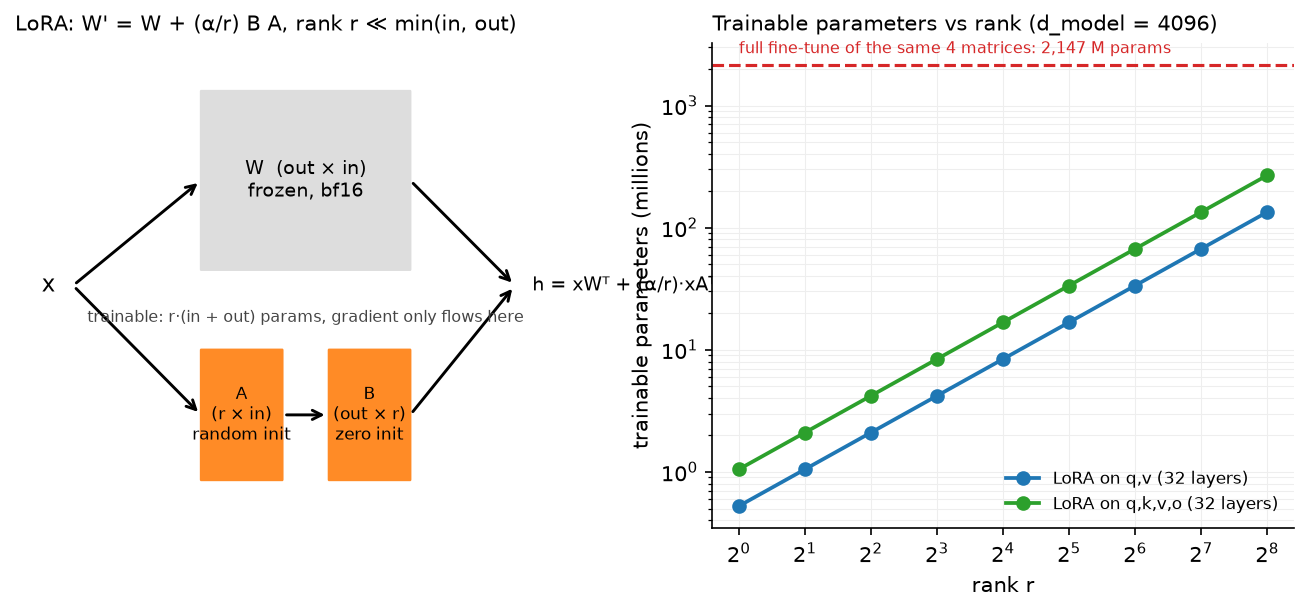
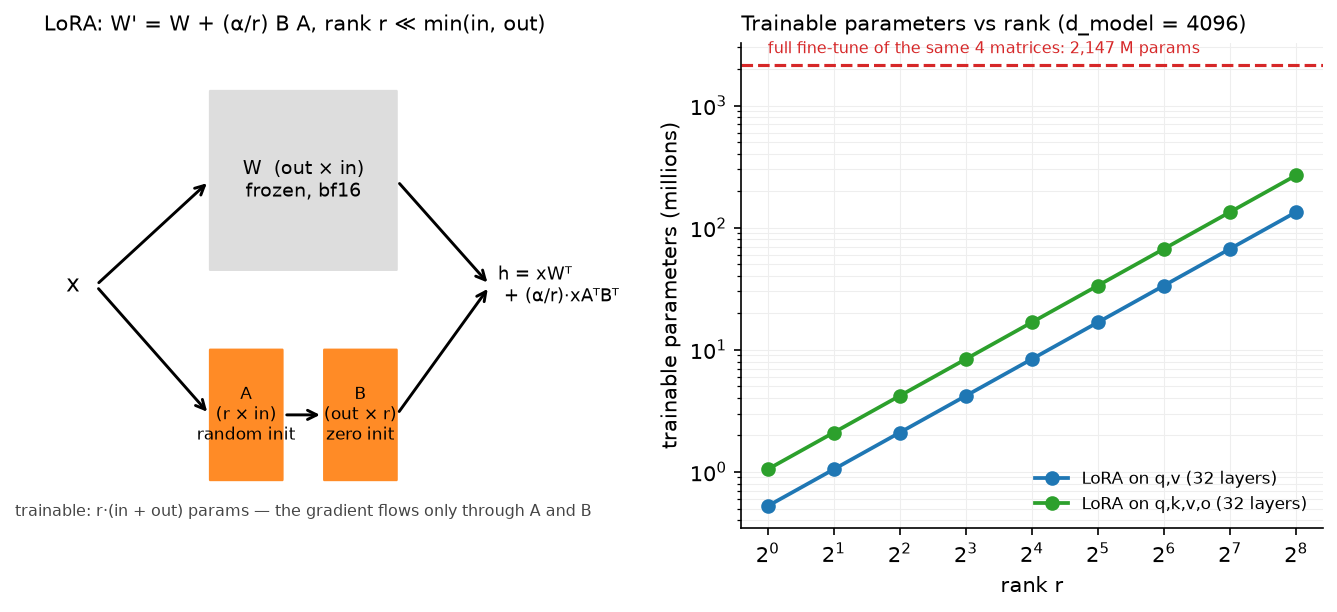
WIP: in-progress chapter and code work from resumed authors
Claude-Session: https://claude.ai/code/session_015H27xcFqfnuEV6DfXzrQek

diff --git a/figures/part03_dropout.py b/figures/part03_dropout.py
@@ -40,43 +40,63 @@ for k in range(3):
 ax.set_title("each minibatch trains a different thinned network\n(hollow = dropped, p = 0.5); inference averages them", fontsize=9)
 ax.set_xlim(-0.15, 1.05)
 
-# ---- right: a real experiment ---------------------------------------------------
-x_all, y_all = make_two_moons(n=120, noise=0.35, seed=1)
-x_tr, y_tr, x_va, y_va = x_all[:40], y_all[:40], x_all[40:], y_all[40:]
-
-
-def run(p_drop, epochs=600, lr=0.05, seed=0):
+# ---- right: a real experiment ------------------------------------------------
+# A task where dropout genuinely helps: 100-dim inputs of which only 10 carry signal,
+# 300 training points, a deliberately over-parameterised 100-64-64-2 MLP.
+def make_sparse(n, d=100, k=10, seed=0, noise=0.3):
     rng = np.random.default_rng(seed)
-    l1, l2, l3 = Linear(2, 128, rng), Linear(128, 128, rng), Linear(128, 2, rng)
+    x = rng.normal(size=(n, d))                                  # (n, d)
+    w = np.zeros(d)                                              # (d,)
+    w[:k] = rng.choice([-1.0, 1.0], k)                           # only k features matter
+    logit = x @ w / np.sqrt(k) * 2.0                             # (n,)
+    y = (logit + rng.normal(scale=noise, size=n) > 0).astype(int)  # (n,)
+    return x, y
+
+
+N_TR = 300
+x_all, y_all = make_sparse(N_TR + 1000)
+x_tr, y_tr, x_va, y_va = x_all[:N_TR], y_all[:N_TR], x_all[N_TR:], y_all[N_TR:]
+
+
+def run(p_drop, epochs=400, lr=0.05, width=64, seed=0):
+    rng = np.random.default_rng(seed)
+    l1 = Linear(x_tr.shape[1], width, rng)                       # (d, width)
+    l2 = Linear(width, width, rng)                               # (width, width)
+    l3 = Linear(width, 2, rng)                                   # (width, 2)
     a1, a2 = ReLU(), ReLU()
     d1, d2 = Dropout(p_drop, seed=1), Dropout(p_drop, seed=2)
     loss_fn = CrossEntropyLoss()
-    tr, va = [], []
+    tr, va, acc = [], [], []
     for _ in range(epochs):
         for d in (d1, d2):
             d.training = True
-        h = d2.forward(a2.forward(l2.forward(d1.forward(a1.forward(l1.forward(x_tr))))))
+        h = d2.forward(a2.forward(l2.forward(d1.forward(a1.forward(l1.forward(x_tr))))))  # (N_TR, width)
         tr.append(loss_fn.forward(l3.forward(h), y_tr))
-        g = l3.backward(loss_fn.backward())
+        g = l3.backward(loss_fn.backward())                      # (N_TR, 2) -> (N_TR, width)
         g = l1.backward(a1.backward(d1.backward(l2.backward(a2.backward(d2.backward(g))))))
         for lin in (l1, l2, l3):
             lin.W -= lr * lin.dW
             lin.b -= lr * lin.db
         for d in (d1, d2):
-            d.training = False
-        h = a2.forward(l2.forward(a1.forward(l1.forward(x_va))))
-        va.append(CrossEntropyLoss().forward(l3.forward(h), y_va))
-    return tr, va
+            d.training = False                                   # inference: no mask, no rescale
+        logits = l3.forward(a2.forward(l2.forward(a1.forward(l1.forward(x_va)))))  # (1000, 2)
+        va.append(CrossEntropyLoss().forward(logits, y_va))
+        acc.append(float((logits.argmax(1) == y_va).mean()))
+    return tr, va, acc
 
 
 ax = axes[1]
+finals = {}
 for p, ls in [(0.0, "-"), (0.5, "--")]:
-    tr, va = run(p)
+    tr, va, acc = run(p)
+    finals[p] = (va[-1], acc[-1])
     ax.plot(tr, ls=ls, color="C0", label=f"train, p={p}")
     ax.plot(va, ls=ls, color="C1", label=f"val, p={p}")
-ax.set_xlabel("epoch (full-batch GD, 40 train / 80 val points, noise 0.35)")
+ax.set_xlabel("epoch (full-batch GD; 300 train / 1000 val, 100 features of which 10 matter)")
 ax.set_ylabel("cross-entropy")
-ax.set_title("2-128-128-2 MLP: dropout closes the train/val gap", fontsize=9)
+ax.set_title("100-64-64-2 MLP: p=0 overfits (val {:.2f}, acc {:.2f});\n"
+             "p=0.5 does not (val {:.2f}, acc {:.2f})".format(
+                 finals[0.0][0], finals[0.0][1], finals[0.5][0], finals[0.5][1]), fontsize=9)
 ax.legend(fontsize=8)
 ax.grid(alpha=0.3)
 fig.tight_layout()

diff --git a/figures/part06_lora_diagram.py b/figures/part06_lora_diagram.py
@@ -21,7 +21,7 @@ def main() -> None:
     colors = plt.rcParams["axes.prop_cycle"].by_key()["color"]
     fig, (ax1, ax2) = plt.subplots(1, 2, figsize=(11, 4.2), facecolor="white")
 
-    ax1.set_xlim(0, 10)
+    ax1.set_xlim(0, 11.2)
     ax1.set_ylim(0, 6)
     ax1.axis("off")
     ax1.add_patch(FancyBboxPatch((3.2, 3.2), 3.6, 2.2, boxstyle="round,pad=0.02", facecolor="#dddddd", edgecolor="none"))
@@ -34,8 +34,8 @@ def main() -> None:
                                ((6.8, 4.3), (8.6, 3.0)), ((6.8, 1.4), (8.6, 3.0))]:
         ax1.add_patch(FancyArrowPatch((x0, y0), (x1, y1), arrowstyle="->", mutation_scale=11, linewidth=1.4))
     ax1.text(0.7, 3.0, "x", fontsize=11, ha="right", va="center")
-    ax1.text(8.9, 3.0, "h = xWᵀ + (α/r)·xAᵀBᵀ", fontsize=9, ha="left", va="center")
-    ax1.text(5.0, 2.55, "trainable: r·(in + out) params, gradient only flows here", ha="center", fontsize=7.5, color="#444444")
+    ax1.text(8.75, 3.0, "h = xWᵀ\n + (α/r)·xAᵀBᵀ", fontsize=8.5, ha="left", va="center")
+    ax1.text(5.0, 0.15, "trainable: r·(in + out) params — the gradient flows only through A and B", ha="center", fontsize=7.5, color="#444444")
     ax1.set_title("LoRA: W' = W + (α/r) B A, rank r ≪ min(in, out)", fontsize=10, loc="left")
 
     d = 4096

diff --git a/tests/test_interp_sae.py b/tests/test_interp_sae.py
@@ -20,9 +20,14 @@ def test_sae_loss_matches_manual():
 def test_train_sae_recovers_superposed_features():
     torch.manual_seed(0)
     torch.set_num_threads(1)
-    X, dirs = sae_mod.make_superposition_data(n=4096, d=16, n_true=32, p_active=0.05)
+    # NOTE: the data seed must differ from the global seed used by the SAE's own
+    # randn init, otherwise the first n_true decoder rows are drawn as the very same
+    # numbers as the true directions and recovery is 1.0 before any training.
+    X, dirs = sae_mod.make_superposition_data(n=4096, d=16, n_true=32, p_active=0.05, seed=7)
     sae = sae_mod.SparseAutoencoder(16, 64)
     before = sae_mod.feature_recovery(sae, dirs).mean()
+    assert before < 0.8  # random dictionary: best |cos| in d=16 over 64 rows is ~0.6
     sae_mod.train_sae(sae, X, l1_coeff=0.2, steps=600)
     after = sae_mod.feature_recovery(sae, dirs)
     assert after.mean() > before and after.mean() > 0.85
+    assert float(after.min()) > 0.6

diff --git a/figures/part12_agent_loop.py b/figures/part12_agent_loop.py
@@ -10,6 +10,7 @@ import matplotlib
 
 matplotlib.use("Agg")
 import matplotlib.pyplot as plt  # noqa: E402
+from matplotlib.colors import to_hex  # noqa: E402
 from matplotlib.patches import FancyBboxPatch  # noqa: E402
 
 OUT = Path(__file__).resolve().parents[1] / "docs" / "assets" / "figures" / "part12_agent_loop.png"
@@ -27,7 +28,7 @@ def arrow(ax, x0, y0, x1, y1, text="", rad=0.0, color="#333333"):
 
 
 def main() -> None:
-    c = plt.rcParams["axes.prop_cycle"].by_key()["color"]
+    c = [to_hex(x) for x in plt.rcParams["axes.prop_cycle"].by_key()["color"]]  # tab10 as #rrggbb
     fig, ax = plt.subplots(figsize=(10.5, 5.2), facecolor="white")
     ax.set_xlim(0, 10.5)
     ax.set_ylim(0, 5.2)

diff --git a/figures/part12_taxonomy.py b/figures/part12_taxonomy.py
@@ -10,6 +10,7 @@ import matplotlib
 
 matplotlib.use("Agg")
 import matplotlib.pyplot as plt  # noqa: E402
+from matplotlib.colors import to_hex  # noqa: E402
 from matplotlib.patches import FancyBboxPatch  # noqa: E402
 
 OUT = Path(__file__).resolve().parents[1] / "docs" / "assets" / "figures" / "part12_taxonomy.png"
@@ -27,7 +28,7 @@ def arrow(ax, x0, y0, x1, y1):
 
 
 def main() -> None:
-    c = plt.rcParams["axes.prop_cycle"].by_key()["color"]
+    c = [to_hex(x) for x in plt.rcParams["axes.prop_cycle"].by_key()["color"]]  # tab10 as #rrggbb
     fig, ax = plt.subplots(figsize=(11, 6.4), facecolor="white")
     ax.set_xlim(0, 11)
     ax.set_ylim(0, 6.4)

diff --git a/figures/part06_midtraining_pipeline.py b/figures/part06_midtraining_pipeline.py
@@ -40,7 +40,7 @@ def main() -> None:
     ax2.set_ylabel("data mixture (fraction of tokens)")
     ax2.set_xlabel("percent of pretraining tokens")
     ax2.set_ylim(0, 1)
-    ax2.legend(fontsize=7.5, frameon=False, loc="upper left", ncol=3)
+    ax2.legend(fontsize=7.5, frameon=False, loc="upper center", bbox_to_anchor=(0.5, -0.22), ncol=3)
     for ax in (ax1, ax2):
         ax.axvline(anneal_start, color="#888888", linewidth=0.8, linestyle="--")
         ax.axvline(ctx_start, color="#888888", linewidth=0.8, linestyle="--")

diff --git a/figures/part15_sae_features.py b/figures/part15_sae_features.py
@@ -16,7 +16,7 @@ OUT = Path(__file__).resolve().parents[1] / "docs" / "assets" / "figures" / "par
 def main() -> None:
     torch.manual_seed(0)
     torch.set_num_threads(1)
-    X, dirs = make_superposition_data(n=4096, d=16, n_true=32, p_active=0.05)
+    X, dirs = make_superposition_data(n=4096, d=16, n_true=32, p_active=0.05, seed=7)
     sae = SparseAutoencoder(16, 64)
     train_sae(sae, X, l1_coeff=0.2, steps=600)
     cos = (dirs @ sae.W_dec.detach().T).abs()  # (32, 64)

diff --git a/docs/part05-sequence-transformers/index.md b/docs/part05-sequence-transformers/index.md
@@ -1,0 +1,96 @@
+# Part V — Sequences & Transformers
+
+> **Why this part matters at staff level.** This is the single most-asked coding topic in
+> modern ML interviews. "Implement multi-head attention", "add a causal mask", "now add a
+> KV cache", "implement RoPE", "implement BPE" are asked verbatim at frontier labs, at
+> autonomy companies (the same block runs in occupancy and planning stacks), and at
+> consumer-ranking teams. Everything in Parts VI–XI assumes you can write these from a
+> blank file, explain every shape, and say what each design choice costs.
+
+If you come from large-scale perception, the Transformer is less foreign than it looks. It
+is a set-to-set function — permutation-equivariant, fully parallel, quadratic in the number
+of elements — which is exactly what you already reason about when you fuse multi-camera
+features or run a detection head over a set of queries. What is new is (1) that position must
+be injected explicitly, (2) that the sequence is generated one token at a time at inference
+and that this single fact drives the whole serving stack, and (3) that the input is not pixels
+but *tokens produced by a learned compression algorithm* with its own failure modes.
+
+## What is covered
+
+| Chapter | The one question it answers | You will implement |
+|---|---|---|
+| [1. RNN, LSTM, GRU](01-rnn-lstm-gru.md) | Why gradients vanish through a recurrence, and why we abandoned recurrence for training | NumPy RNN and LSTM with full BPTT verified by finite differences, a GRU in PyTorch, gradient clipping |
+| [2. Seq2seq & early attention](02-seq2seq-attention.md) | How attention was invented to fix a bottleneck, and why it is a soft dictionary lookup | Bahdanau and Luong attention, an encoder-decoder that learns to reverse sequences, beam search |
+| [3. Attention mathematics](03-attention-mathematics.md) | Every symbol, shape, FLOP, byte and gradient in $\softmax(QK^\top/\sqrt{d_k})V$ | Scaled dot-product attention, multi-head attention with three separate projections, causal and padding masks, cross-attention, the full backward pass in NumPy |
+| [4. Transformer architectures](04-transformer-architectures.md) | When to reach for BERT, GPT or T5, and what is inside a block | Encoder and decoder blocks, FFN variants, a tiny GPT with weight tying and an explicit KV cache, a tiny BERT with an MLM head, a tiny T5 |
+| [5. Positional encodings](05-positional-encodings.md) | How a permutation-equivariant function learns about order, and how context windows get extended | Sinusoidal, learned, T5 relative bias, RoPE (with the relative-position property tested numerically), ALiBi |
+| [6. Tokenization](06-tokenization.md) | Where tokens come from and which model failures are really tokenizer failures | BPE training and encoding from scratch, byte-level BPE, WordPiece, a Unigram-LM sketch with Viterbi |
+
+All code lives in `src/mlbook/sequence/` and `src/mlbook/transformer/` and is checked by
+`tests/test_sequence_*.py` and `tests/test_transformer_*.py`. Nothing in this part calls
+`nn.MultiheadAttention`, `nn.Transformer`, or a tokenizer library; the library versions
+appear only inside tests, as references to check our implementations against.
+
+## Prerequisites
+
+* [Matrix calculus](../part01-math/02-calculus-matrix-calculus.md) — the attention backward
+  pass is a chain of matmul and softmax Jacobians and this part derives it in full.
+* [Tensors, shapes & broadcasting](../part01-math/07-tensor-shapes-broadcasting.md) — the
+  `(B, T, d) → (B, H, T, d_head)` reshape is the single most common interview slip.
+* [Backpropagation](../part03-neural-nets/02-backpropagation.md) and
+  [Normalization](../part03-neural-nets/05-normalization.md) — LayerNorm is assumed; RMSNorm
+  is derived here.
+* [Softmax regression](../part02-classical/02-logistic-softmax-regression.md) for the softmax
+  Jacobian $\diag(p) - pp^\top$, which reappears as the core of the attention backward.
+* [Information theory](../part01-math/05-information-theory.md) for cross-entropy and
+  perplexity, used from chapter 4 onwards.
+
+## Reading order and dependencies
+
+```mermaid
+flowchart LR
+  A[1. RNN / LSTM / GRU] --> B[2. Seq2seq & attention]
+  B --> C[3. Attention mathematics]
+  C --> D[4. Transformer architectures]
+  C --> E[5. Positional encodings]
+  E --> D
+  F[6. Tokenization] --> D
+  D --> G[Part VI: LLM training]
+  D --> H[Part VIII: Multimodal]
+  C --> I[Part XI: Perception & autonomy]
+```
+
+Chapter 3 is the load-bearing one. Chapters 1 and 2 exist to make chapter 3 feel inevitable
+rather than arbitrary — if you already know why $\softmax(QK^\top/\sqrt{d_k})V$ is what it is,
+you can read them as history. Chapters 5 and 6 are independent of each other and can be read
+in either order after chapter 3.
+
+## If you have one day
+
+An eight-hour pass that leaves you able to write every core implementation from memory:
+
+| Time | What | Why this order |
+|---|---|---|
+| 0:00–0:45 | [Chapter 1](01-rnn-lstm-gru.md), §1–§2 and the TL;DR of the rest | You need the vanishing-gradient derivation and the sequential-compute argument; the LSTM gates are worth 20 minutes even if you never implement one again |
+| 0:45–1:30 | [Chapter 2](02-seq2seq-attention.md) in full | The bottleneck → attention story is the best motivation for chapter 3, and teacher forcing / exposure bias / beam search are asked on their own |
+| 1:30–3:30 | [Chapter 3](03-attention-mathematics.md) in full, twice | This is the chapter. Derive $\sqrt{d_k}$, do the shape walk-through with a pen, write the backward pass out |
+| 3:30–4:15 | Retype `scaled_dot_product_attention`, `MultiHeadAttention`, `causal_mask` from memory; run `pytest tests/test_transformer_attention.py tests/test_transformer_multihead.py -q` | First closed-book rep while the derivation is fresh |
+| 4:15–5:30 | [Chapter 4](04-transformer-architectures.md), §1–§4 | Block anatomy, Pre-LN vs Post-LN, parameter counting, the $6N$ rule, and the KV cache |
+| 5:30–6:15 | Retype the KV cache and `generate`; run `pytest tests/test_transformer_gpt.py -q` | The cached-equals-uncached test is the exact check an interviewer will ask you to reason about |
+| 6:15–7:15 | [Chapter 5](05-positional-encodings.md) | RoPE end to end: derive the relative-position property, then retype `RotaryEmbedding` and `apply_rotary` |
+| 7:15–8:00 | [Chapter 6](06-tokenization.md), §1–§3 and §4's failure-mode table | Enough to implement BPE and to diagnose a "why can't it count letters" question |
+
+If you have only two hours: chapter 3 in full, then retype multi-head attention with a causal
+mask until it runs clean. That single exercise is worth more than skimming all six chapters.
+
+## The interview drills this part prepares you for
+
+1. **"Implement multi-head attention."** Blank file, 20 minutes, three separate Q/K/V
+   projections, shapes stated out loud. Chapter 3.
+2. **"Now make it causal, then add a KV cache."** The follow-up in ~80% of cases.
+   Chapters 3 and 4.
+3. **"Implement RoPE and show me the relative-position property."** Chapter 5.
+4. **"Implement BPE training and encoding."** Chapter 6.
+5. **"Why $\sqrt{d_k}$?"** / **"Why does the residual stream need Pre-LN at depth?"** /
+   **"How many parameters is a 12-layer, 768-wide model?"** — the depth-round questions that
+   separate recall from understanding. Chapters 3 and 4.
